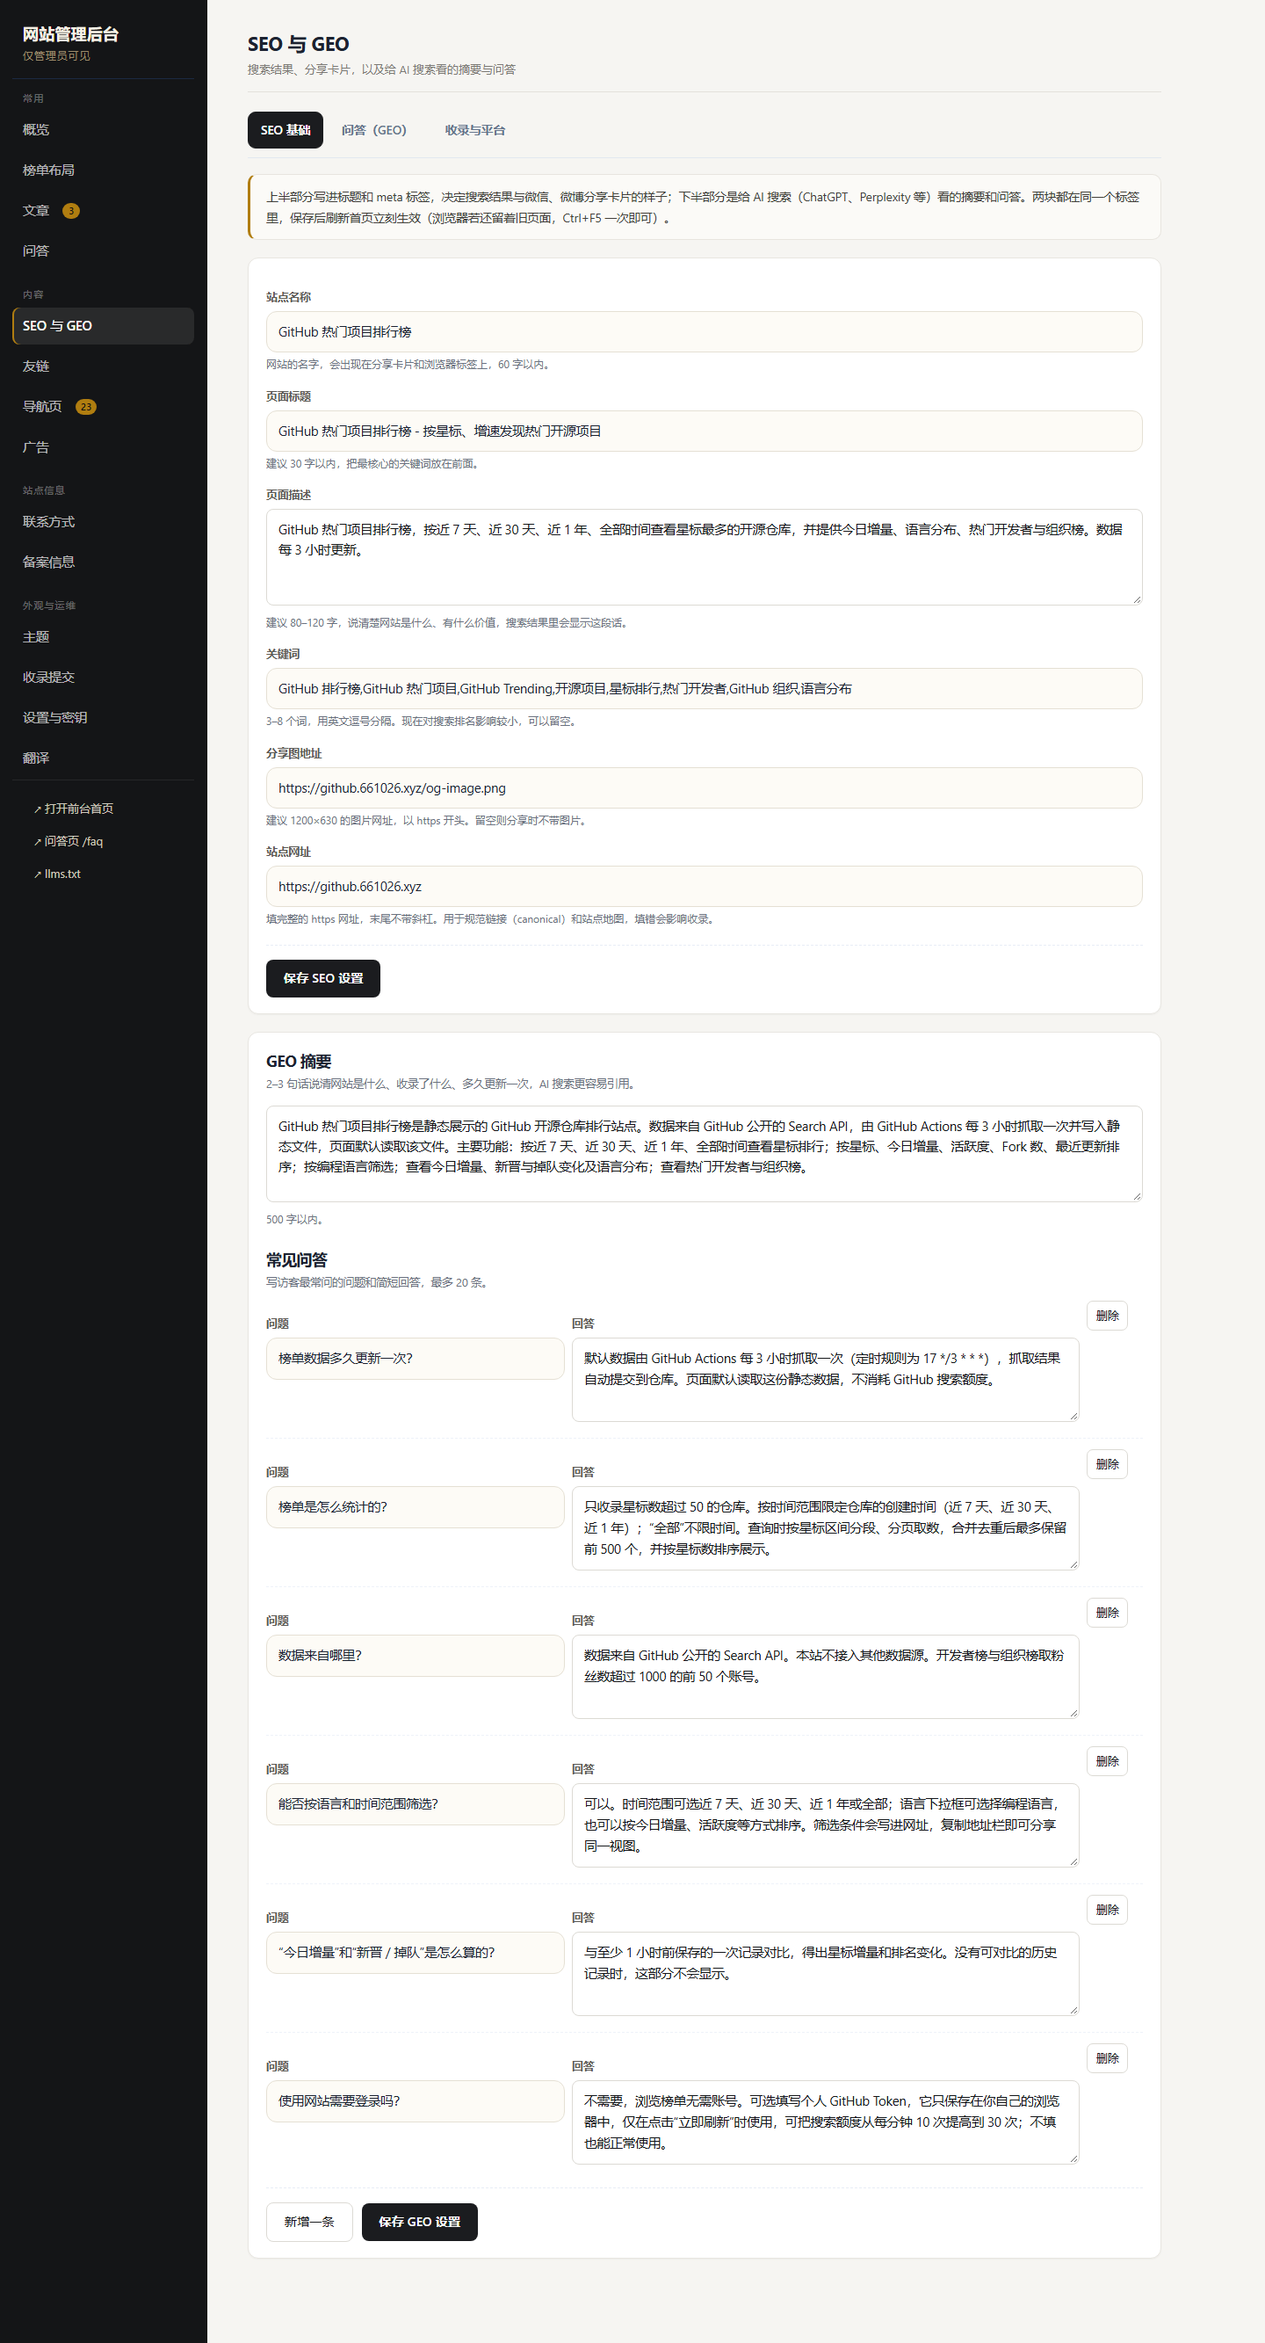
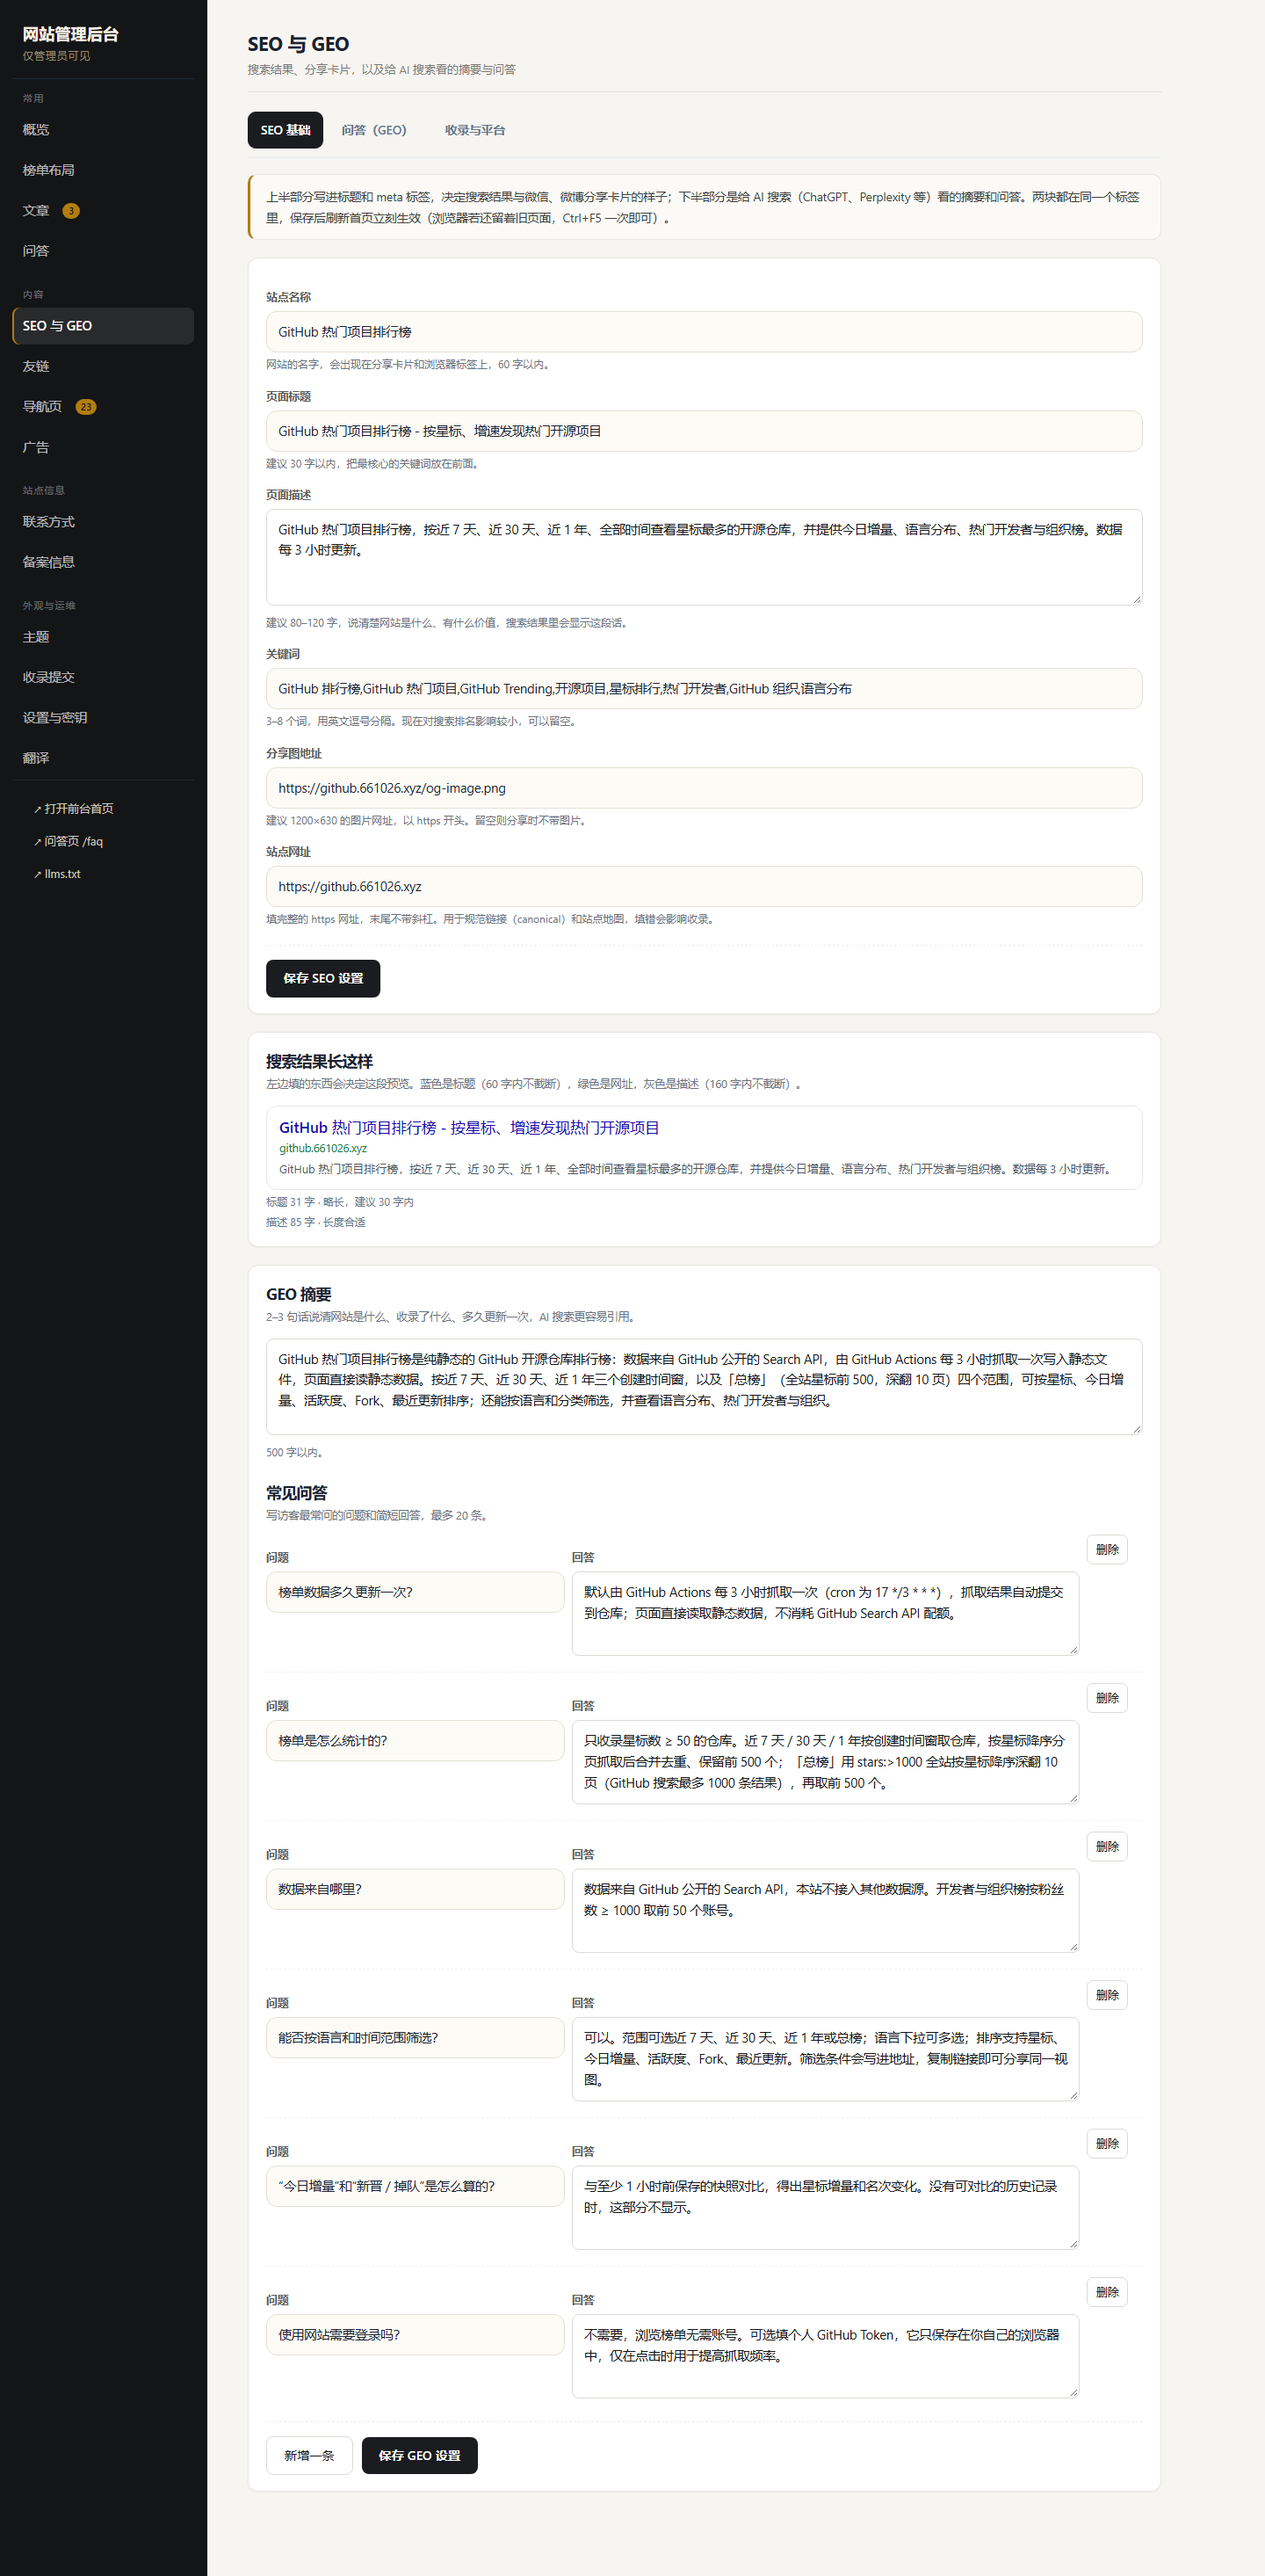
feat: SEO 面板加搜索结果实时预览与字数提示；v84

diff --git a/worker.js b/worker.js
@@ -1431,7 +1431,7 @@ async function injectFaqLd(env, html) {
 
 // 静态资源版本：HTML 里的 /js/*.js 都会被加上 ?v=<这里>，于是能给浏览器一年 immutable；
 // 改了前端就把它 +1（不然用户浏览器会抱着一周的旧 bundle，界面上去点了没反应）
-const ASSET_V = 'v83';
+const ASSET_V = 'v84';
 
 function emptyNav() {
   return { updatedAt: '', groups: [] };
@@ -3141,7 +3141,13 @@ th{color:var(--muted);font-weight:600;font-size:13px}
     .raw summary{cursor:pointer;font-size:12px;color:#64748b}
     .raw pre{margin:6px 0 0;padding:8px 10px;background:#f8fafc;border:1px solid #e2e8f0;border-radius:8px;font-size:11.5px;white-space:pre-wrap;word-break:break-all;max-height:180px;overflow:auto}
     .toggle.inline{display:inline-flex;align-items:center;gap:6px;font-size:13px;color:#475569;white-space:nowrap}
-    .tr-out{display:grid;gap:10px;margin-top:14px}
+    .serp{margin-top:6px;padding:12px 14px;border:1px solid #e5e7eb;border-radius:12px;background:#fff}
+  .serp-t{font-size:17px;line-height:1.35;color:#1a0dab;font-weight:500;margin-bottom:2px}
+  .serp-u{font-size:12.5px;color:#15803d;margin-bottom:4px;word-break:break-all}
+  .serp-d{font-size:13px;line-height:1.6;color:#4b5563}
+  .cnow{margin-top:4px;font-size:12px;color:#64748b}
+  .cnow.cwarn{color:#b91c1c}
+  .tr-out{display:grid;gap:10px;margin-top:14px}
 .tr-box{border:1px solid var(--line);border-radius:10px;padding:12px 14px;font-size:14px;background:#f8fafc}
 .tr-box h4{margin:0 0 6px;font-size:12px;color:var(--muted);font-weight:600}
 .tr-box p{margin:0;color:var(--text);word-break:break-word;line-height:1.6}
@@ -3857,6 +3863,16 @@ tr:hover td{background:#fcfbf8}
         <div class="actions"><button type="button" data-save="seo">保存 SEO 设置</button></div>
       </div>
       <div class="card">
+        <div class="card-head"><div><h2>搜索结果长这样</h2><p class="desc">左边填的东西会决定这段预览。蓝色是标题（60 字内不截断），绿色是网址，灰色是描述（160 字内不截断）。</p></div></div>
+        <div class="serp">
+          <div class="serp-t" id="serpTitle">GitHub 热门项目排行榜</div>
+          <div class="serp-u" id="serpUrl">github.661026.xyz</div>
+          <div class="serp-d" id="serpDesc">（这里会显示页面描述，建议 80–120 字）</div>
+        </div>
+        <div class="cnow" id="serpTitleCnt">—</div>
+        <div class="cnow" id="serpDescCnt">—</div>
+      </div>
+      <div class="card">
         <div class="card-head"><div><h2>GEO 摘要</h2><p class="desc">2–3 句话说清网站是什么、收录了什么、多久更新一次，AI 搜索更容易引用。</p></div></div>
         <textarea id="geo-summary" maxlength="500" placeholder="本站每 3 小时自动抓取 GitHub 热门开源项目，按星标数、今日增量、语言分类整理成排行榜……"></textarea>
         <div class="hint">500 字以内。</div>
@@ -4529,10 +4545,40 @@ tr:hover td{background:#fcfbf8}
     }
   })();
 
+  function paintSerp() {
+    var tEl = $('seo-title'), dEl = $('seo-description'), uEl = $('seo-siteUrl'), nEl = $('seo-siteName');
+    if (!tEl || !dEl) return;
+    function esc(x) {
+      return String(x).replace(/&/g, '&amp;').replace(/</g, '&lt;').replace(/>/g, '&gt;');
+    }
+    var title = (tEl.value || (nEl && nEl.value) || 'GitHub 热门项目排行榜').trim();
+    var desc = (dEl.value || '').trim();
+    var url = ((uEl && uEl.value) || location.origin || '').trim();
+    while (url.slice(-1) === '/') url = url.slice(0, -1);
+    var shown = url.indexOf('https://') === 0 ? url.slice(8) : url.indexOf('http://') === 0 ? url.slice(7) : url;
+    var tBox = $('serpTitle'), uBox = $('serpUrl'), dBox = $('serpDesc');
+    if (tBox) tBox.textContent = title.length > 60 ? title.slice(0, 60) + '…' : title;
+    if (uBox) uBox.textContent = shown || 'github.661026.xyz';
+    if (dBox) dBox.textContent = desc ? (desc.length > 160 ? desc.slice(0, 160) + '…' : desc) : '（这里会显示页面描述，建议 80–120 字）';
+    var tc = $('serpTitleCnt'), dc = $('serpDescCnt');
+    if (tc) {
+      tc.textContent = '标题 ' + title.length + ' 字 · ' + (title.length > 60 ? '超过 60 字会被截断' : title.length > 30 ? '略长，建议 30 字内' : '长度合适');
+      tc.className = 'cnow' + (title.length > 60 ? ' cwarn' : '');
+    }
+    if (dc) {
+      dc.textContent = '描述 ' + desc.length + ' 字 · ' + (desc.length > 160 ? '超过 160 字会被截断' : desc.length === 0 ? '还没填' : desc.length < 60 ? '偏短，建议 80–120 字' : '长度合适');
+      dc.className = 'cnow' + (desc.length > 160 ? ' cwarn' : '');
+    }
+  }
+  ['seo-title', 'seo-description', 'seo-siteUrl', 'seo-siteName'].forEach(function (id) {
+    var el = $(id);
+    if (el) el.addEventListener('input', paintSerp);
+  });
   function loadSite() {
     api('/api/site').then(function (r) {
       if (!r.ok) { toast(r.error || '读取站点配置失败', false); return; }
       fillSite(r.site);
+      paintSerp();
     });
   }
   function collect(sec) {

diff --git a/sw.js b/sw.js
@@ -1,5 +1,5 @@
 /* Service Worker：缓存页面外壳（HTML/JS/图标），让离线也能打开；GitHub API 不缓存，由页面自己的 localStorage 管理 */
-const CACHE = 'ghrank-shell-v83';
+const CACHE = 'ghrank-shell-v84';
 const SHELL = ['./', 'index.html', 'js/bundle.js', 'js/md.js', 'manifest.json', 'icon.svg'];
 // 只预缓存 meta（约 2KB）。榜单数据按 range 分文件、由页面按需加载，不再在安装时白下几�?KB
 const DATA = 'data/repos-meta.js';

diff --git a/docs/优化建议.md b/docs/优化建议.md
@@ -846,3 +846,22 @@ node scripts/check-worker.mjs      # 本地模拟 Workers 运行时，30+ 项断
 1. 补丁锚点缩进要贴真实文件：写文章弹窗里的 `<label for="artSummary">` 是 **6 空格**缩进，按 8 空格写会命中 0 次。
 2. `background-image:url(...)` 在 HTML 属性里只能用单引号包 URL，用 `JSON.stringify()` 会把双引号写进 `style="…"` 导致属性断裂。
 3. 截图时封面若指向线上域名，headless 里图片还没加载完就是灰底；用本地 `http://127.0.0.1:8123/og-image.png` 才能截到真图。
+
+## 54. 第 29 轮：SEO 面板加「搜索结果长这样」
+
+### 做了什么
+- 后台「SEO 与 GEO」页在保存按钮下方新增一张卡：**搜索结果预览**（蓝标题 / 绿网址 / 灰描述），完全按 Google 的显示规则截断（标题 60 字、描述 160 字），填一行变一行。
+- 两个计数行：
+  * 标题：`标题 N 字 · 长度合适 / 略长，建议 30 字内 / 超过 60 字会被截断`（超 60 变红）。
+  * 描述：`描述 N 字 · 还没填 / 偏短，建议 80–120 字 / 长度合适 / 超过 160 字会被截断`（超 160 变红）。
+- 预览里的网址显示为去掉 `https://` 与结尾斜杠的域名形式（跟搜索结果一致），值来自「站点网址」，没填就退回当前域名。
+- 三个输入框（标题 / 描述 / 站点网址 / 站点名称）都绑了 `input` 事件，`loadSite()` 读完配置后也会主动重绘一次。
+
+### 验证
+- `node --check worker.js`、`check-admin-script`（后台内联脚本可解析）、`check-admin-refs`（`serpTitle/serpUrl/serpDesc/serpTitleCnt/serpDescCnt` 都对得上）全绿。
+- CDP 截图 `docs/shots/admin-seo.png`（1440×2931）：预览卡显示「GitHub 热门项目排行榜 · 按星标、增速发现热门开源项目」+ `github.661026.xyz` + 描述，底部两行计数分别提示「标题 31 字 · 略长，建议 30 字内」「描述 83 字 · 长度合适」。
+- 全套门禁：`check-admin-panes` / `check-pane-wiring` / `check-worker`（74 回源 / 100 API）/ `check-frontend-closure` 全部通过；`ASSET_V`、`CACHE` 升到 v84。
+
+### 坑
+- `ADMIN_PAGE` 是模板字面量：**正则里不能写 `\/`**（会被吃成 `//` 变注释、整段脚本 SyntaxError）。去掉协议与结尾斜杠改用 `indexOf/slice` + `while (url.slice(-1) === '/')`，避免任何反斜杠。
+- 版本号不要手改成默认值：新增 `scripts/bump-version.mjs`，必须显式传 `v84`，否则直接报错退出（之前 `tmp-bump.mjs` 默认值把版本写回旧号，多花了一轮）。
